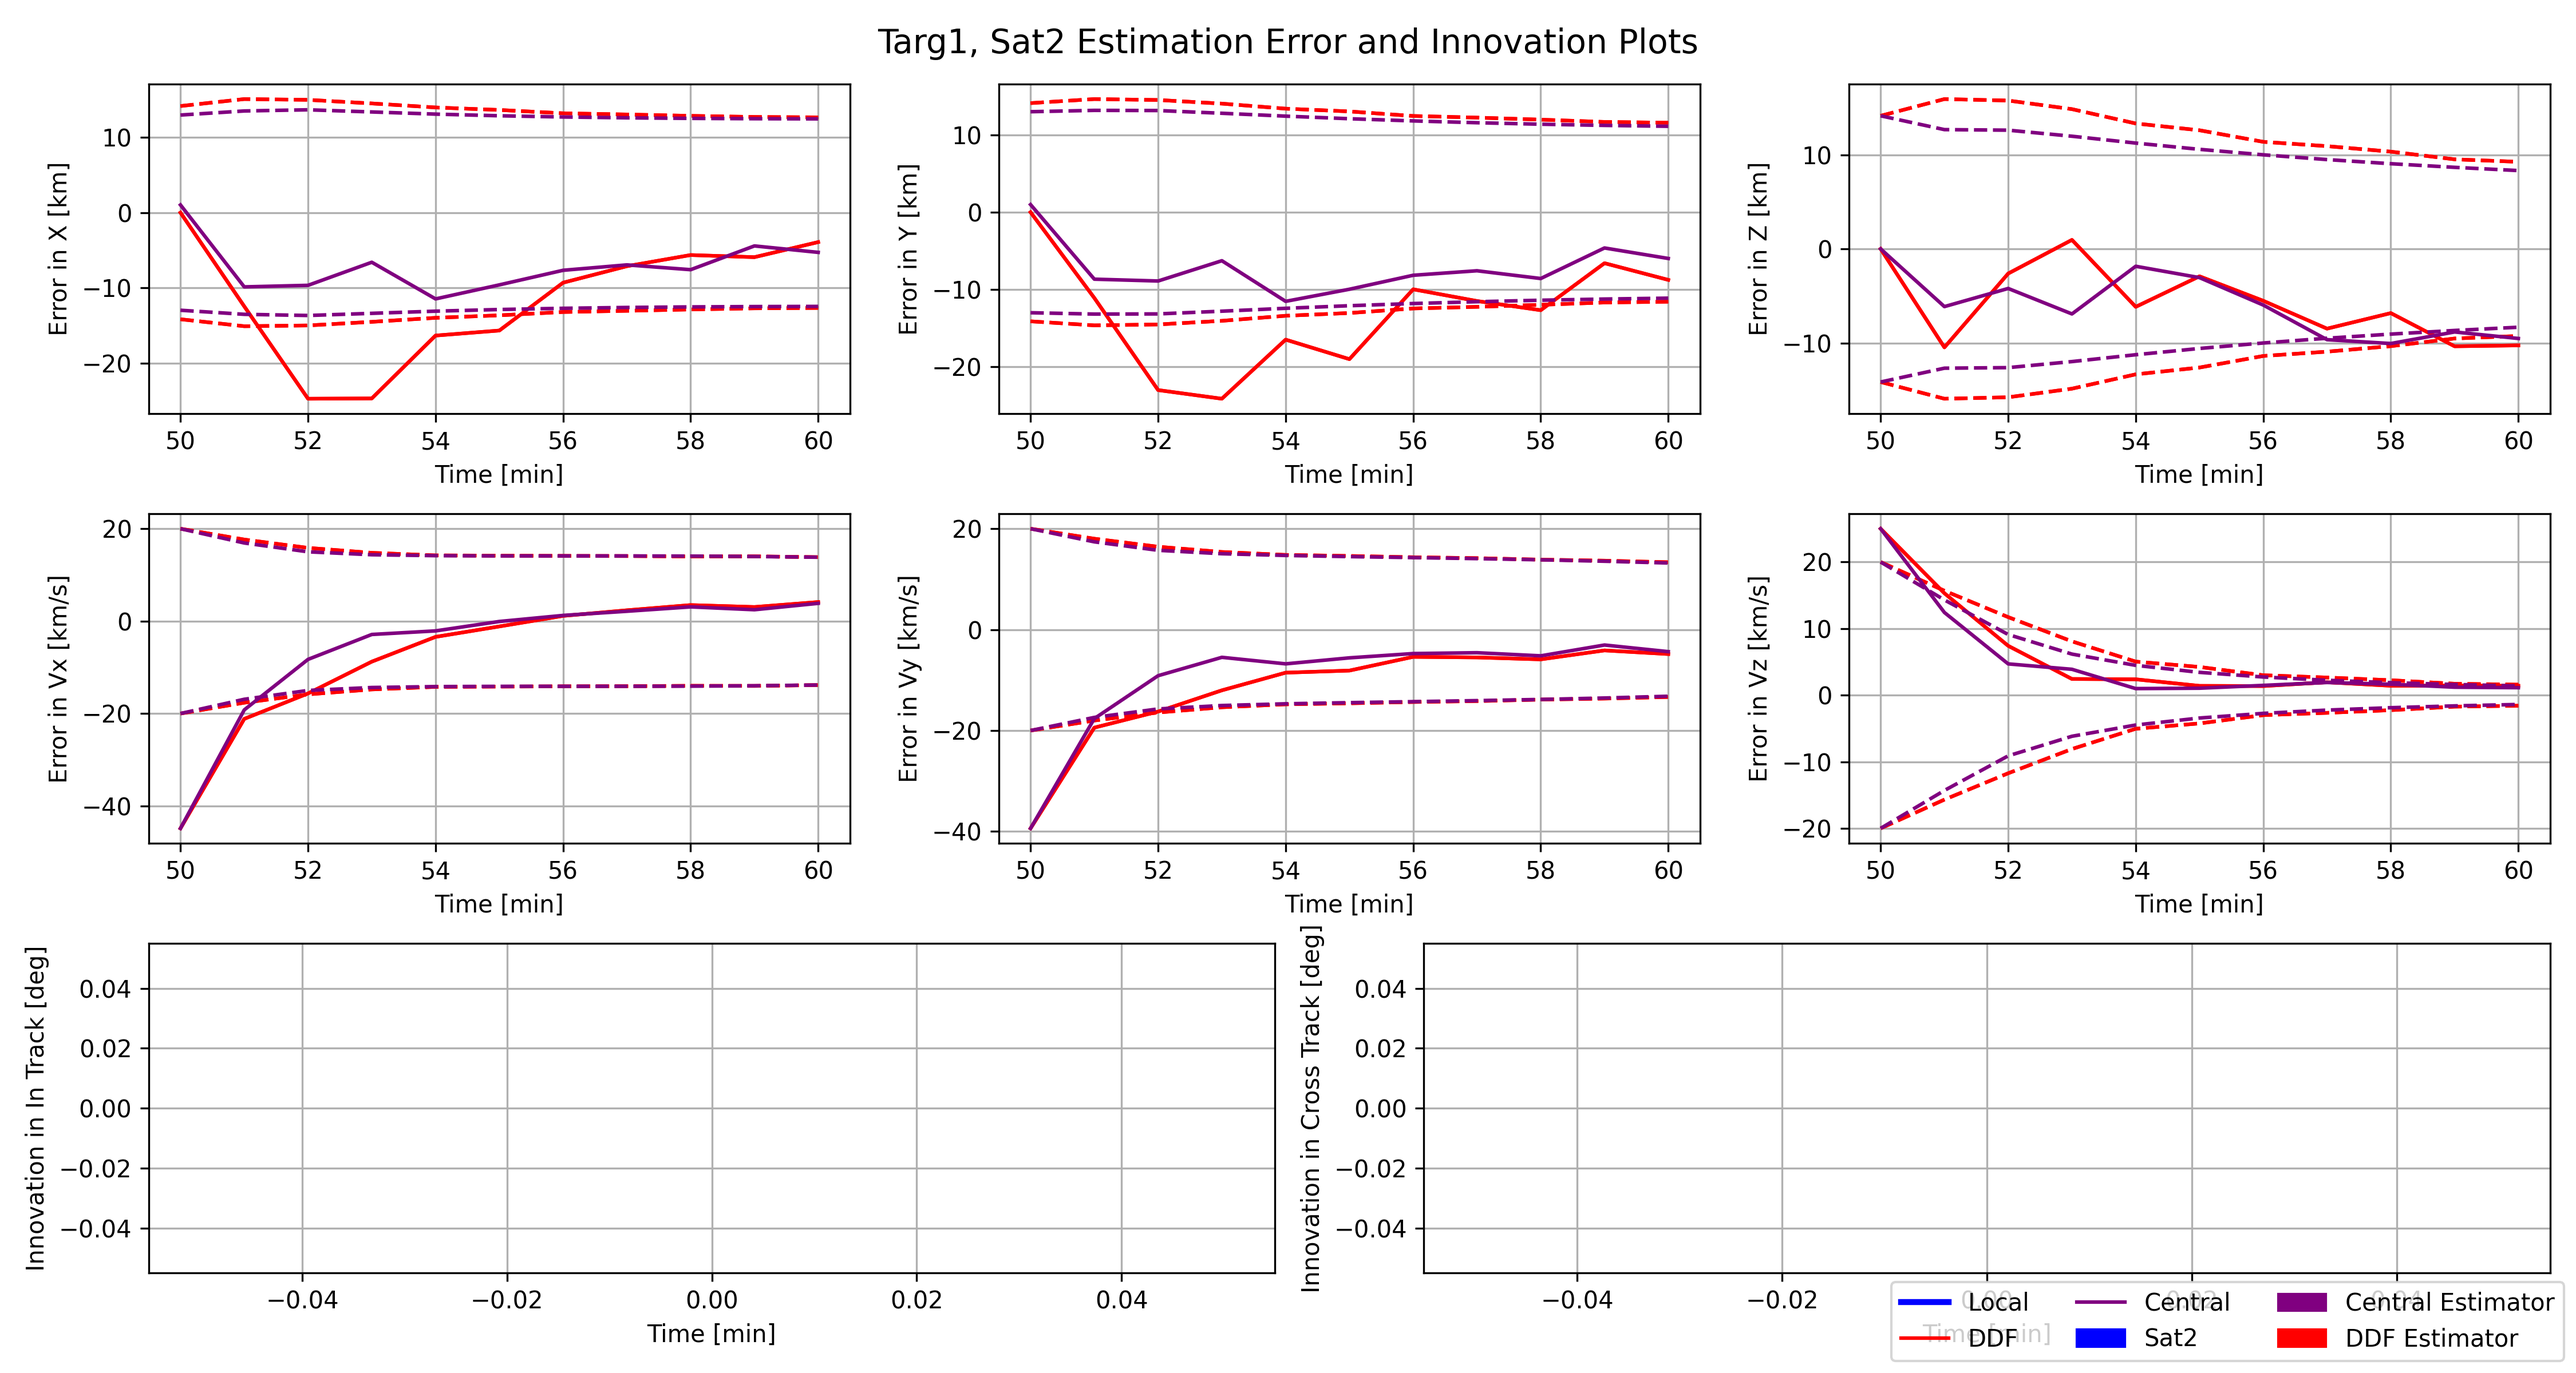
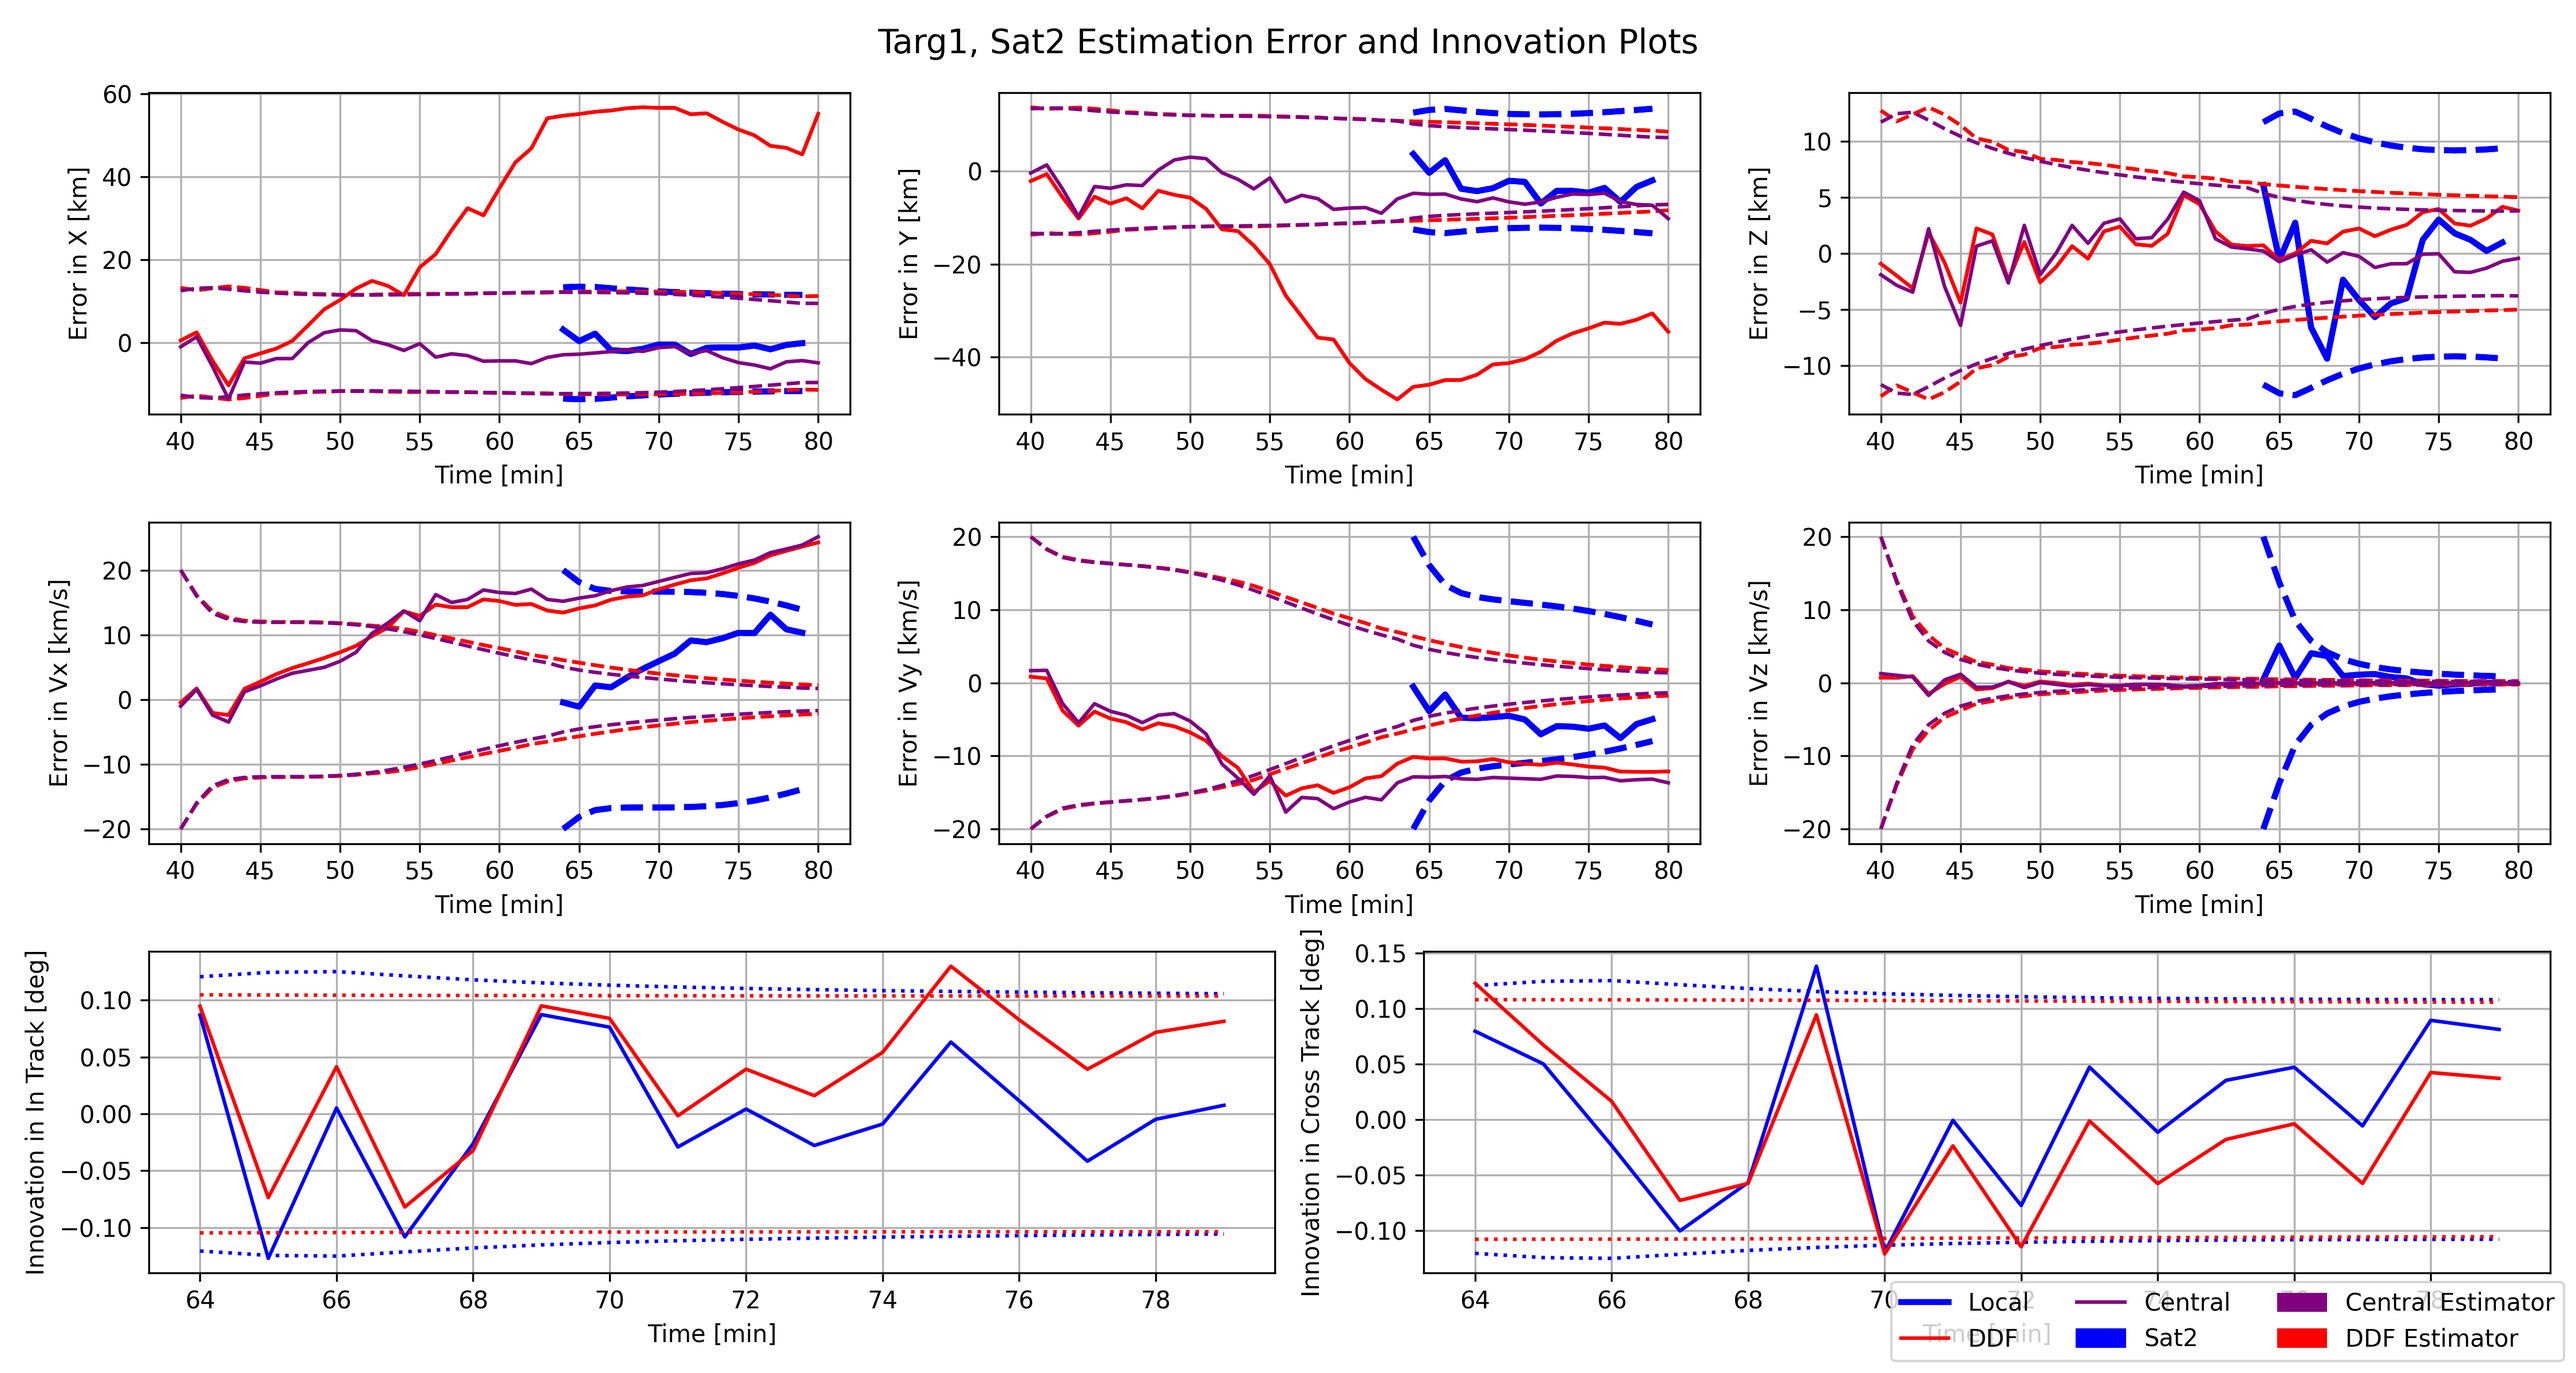
New Push

diff --git a/phase1/main.py b/phase1/main.py
@@ -125,103 +125,12 @@ def plot_NEES_NIS(simData):
         plt.savefig(os.path.join(plotPath,"NEES_NIS_results.png"), dpi=300)
 
 
-
-def testCase_environment():
-# Test Case Consists of:
-#   Four Constellations in Polar Orbits at different right ascension of ascending node
-#   Each Constellation has 5 satellites separated by 5 degrees in true anomaly
-#       Each Satellite one sensors type a,b,c,d,e 
-#       Each satellite tracks all targets
-#       Each Satellite has a local estimator
-#       Each Satellite has a data fusion algorithm
-#
-#   Five Targets at different locations
-#       Target 1: 90 degrees latitude, 0 degrees longitude, 0 altitude, speed 5 m/s, heading 0 degrees, constant altitude 
-#       Target 2: 0 degrees latitude, 0 degrees longitude, 200 altitude, speed 100 m/s, heading 90 degrees, constant altitude
-#       Target 3: 45 degrees latitude, 45 degrees longitude, 100 altitude, speed 50 m/s, heading 45 degrees, constant altitude
-#       Target 4: -45 degrees latitude, 45 degrees longitude, 0 altitude, speed 20 m/s, heading -45 degrees, constant altitude
-#       Target 5: -90 degrees latitude, 45 degrees longitude, 0 altitude, speed 30 m/s, heading 90 degrees, constant altitude
-#
-#   Communication Network:
-#       Each satellite can communicate with 3 nearest neighbors
-#       Maximum range of communication is 5000 km
-#       Minimum range of communication is 500 km
-    
-    
-    # Define 5 sensor models with constant FOV and different bearings error matrixes:
-    bearings_Error_matrix = np.array([ [0.1, 0.1], [0.15, 0.15], [0.2, 0.2], [0.25, 0.25], [0.3, 0.3] ])
-    
-    sensorA = sensor(name = 'Sensor A', fov = 115, bearingsError = bearings_Error_matrix[0])
-    sensorB = sensor(name = 'Sensor B', fov = 115, bearingsError = bearings_Error_matrix[1])
-    sensorC = sensor(name = 'Sensor C', fov = 115, bearingsError = bearings_Error_matrix[2])
-    sensorD = sensor(name = 'Sensor D', fov = 115, bearingsError = bearings_Error_matrix[3])
-    sensorE = sensor(name = 'Sensor E', fov = 115, bearingsError = bearings_Error_matrix[4])
-    
-    # Define TargetIDs
-    targetIDs = [1,2,3,4,5]
-    
-    # Define the indepent Estimator
-    local = indeptEstimator(targetIDs = targetIDs)
-    
-    # Define Data Fusion Algorithm
-    ddf = ddfEstimator(targetIDs = targetIDs)
-    
-    # Define the centralized estimator
-    central = centralEstimator(targetIDs = targetIDs)
-        
-    # Define the satellites:
-    # Constellation 1: Polar Orbit at 0 degrees right ascension of ascending node
-    sat1 = satellite(name = 'Sat1', sensor = deepcopy(sensorA), targetIDs=targetIDs, indeptEstimator=deepcopy(local), ddfEstimator=deepcopy(ddf), a = Earth.R + 1000 * u.km, ecc = 0, inc = 90, raan = 0, argp = 0, nu = 0, color='b')
-    sat2 = satellite(name = 'Sat2', sensor = deepcopy(sensorB), targetIDs=targetIDs, indeptEstimator=deepcopy(local), ddfEstimator=deepcopy(ddf), a = Earth.R + 1000 * u.km, ecc = 0, inc = 90, raan = 0, argp = 0, nu = 15, color='b')
-    sat3 = satellite(name = 'Sat3', sensor = deepcopy(sensorC), targetIDs=targetIDs, indeptEstimator=deepcopy(local), ddfEstimator=deepcopy(ddf), a = Earth.R + 1000 * u.km, ecc = 0, inc = 90, raan = 0, argp = 0, nu = 30, color='b')
-    sat4 = satellite(name = 'Sat4', sensor = deepcopy(sensorD), targetIDs=targetIDs, indeptEstimator=deepcopy(local), ddfEstimator=deepcopy(ddf), a = Earth.R + 1000 * u.km, ecc = 0, inc = 90, raan = 0, argp = 0, nu = 45, color='b')
-    sat5 = satellite(name = 'Sat5', sensor = deepcopy(sensorE), targetIDs=targetIDs, indeptEstimator=deepcopy(local), ddfEstimator=deepcopy(ddf), a = Earth.R + 1000 * u.km, ecc = 0, inc = 90, raan = 0, argp = 0, nu = 60, color='b')
-    
-    # Constellation 2: Polar Orbit at 30 degrees right ascension of ascending node
-    sat6 = satellite(name = 'Sat6', sensor = deepcopy(sensorA), targetIDs=targetIDs, indeptEstimator=deepcopy(local), ddfEstimator=deepcopy(ddf), a = Earth.R + 1000 * u.km, ecc = 0, inc = 90, raan = 30, argp = 0, nu = 0, color='y')
-    sat7 = satellite(name = 'Sat7', sensor = deepcopy(sensorB), targetIDs=targetIDs, indeptEstimator=deepcopy(local), ddfEstimator=deepcopy(ddf), a = Earth.R + 1000 * u.km, ecc = 0, inc = 90, raan = 30, argp = 0, nu = 15, color='y')
-    sat8 = satellite(name = 'Sat8', sensor = deepcopy(sensorC), targetIDs=targetIDs, indeptEstimator=deepcopy(local), ddfEstimator=deepcopy(ddf), a = Earth.R + 1000 * u.km, ecc = 0, inc = 90, raan = 30, argp = 0, nu = 30, color='y')
-    sat9 = satellite(name = 'Sat9', sensor = deepcopy(sensorD), targetIDs=targetIDs, indeptEstimator=deepcopy(local), ddfEstimator=deepcopy(ddf), a = Earth.R + 1000 * u.km, ecc = 0, inc = 90, raan = 30, argp = 0, nu = 45, color='y')
-    sat10 = satellite(name = 'Sat10', sensor = deepcopy(sensorE), targetIDs=targetIDs, indeptEstimator=deepcopy(local), ddfEstimator=deepcopy(ddf), a = Earth.R + 1000 * u.km, ecc = 0, inc = 90, raan = 30, argp = 0, nu = 60, color='y')
-    
-    # Constellation 3: Polar Orbit at 60 degrees right ascension of ascending node
-    # sat11 = satellite(name = 'Sat11', sensor = deepcopy(sensorA), targetIDs=targetIDs, indeptEstimator=deepcopy(local), ddfEstimator=deepcopy(ddf), a = Earth.R + 1000 * u.km, ecc = 0, inc = 90, raan = 60, argp = 0, nu = 0, color='r')
-    # sat12 = satellite(name = 'Sat12', sensor = deepcopy(sensorB), targetIDs=targetIDs, indeptEstimator=deepcopy(local), ddfEstimator=deepcopy(ddf), a = Earth.R + 1000 * u.km, ecc = 0, inc = 90, raan = 60, argp = 0, nu = 5, color='r')
-    # sat13 = satellite(name = 'Sat13', sensor = deepcopy(sensorC), targetIDs=targetIDs, indeptEstimator=deepcopy(local), ddfEstimator=deepcopy(ddf), a = Earth.R + 1000 * u.km, ecc = 0, inc = 90, raan = 60, argp = 0, nu = 10, color='r')
-    # sat14 = satellite(name = 'Sat14', sensor = deepcopy(sensorD), targetIDs=targetIDs, indeptEstimator=deepcopy(local), ddfEstimator=deepcopy(ddf), a = Earth.R + 1000 * u.km, ecc = 0, inc = 90, raan = 60, argp = 0, nu = 15, color='r')
-    # sat15 = satellite(name = 'Sat15', sensor = deepcopy(sensorE), targetIDs=targetIDs, indeptEstimator=deepcopy(local), ddfEstimator=deepcopy(ddf), a = Earth.R + 1000 * u.km, ecc = 0, inc = 90, raan = 60, argp = 0, nu = 20, color='r')
-   
-    # # Constellation 4: Polar Orbit at 90 degrees right ascension of ascending node
-    # sat16 = satellite(name = 'Sat16', sensor = deepcopy(sensorA), targetIDs=targetIDs, indeptEstimator=deepcopy(local), ddfEstimator=deepcopy(ddf), a = Earth.R + 1000 * u.km, ecc = 0, inc = 90, raan = 90, argp = 0, nu = 0, color='g')
-    # sat17 = satellite(name = 'Sat17', sensor = deepcopy(sensorB), targetIDs=targetIDs, indeptEstimator=deepcopy(local), ddfEstimator=deepcopy(ddf), a = Earth.R + 1000 * u.km, ecc = 0, inc = 90, raan = 90, argp = 0, nu = 5, color='g')
-    # sat18 = satellite(name = 'Sat18', sensor = deepcopy(sensorC), targetIDs=targetIDs, indeptEstimator=deepcopy(local), ddfEstimator=deepcopy(ddf), a = Earth.R + 1000 * u.km, ecc = 0, inc = 90, raan = 90, argp = 0, nu = 10, color='g')
-    # sat19 = satellite(name = 'Sat19', sensor = deepcopy(sensorD), targetIDs=targetIDs, indeptEstimator=deepcopy(local), ddfEstimator=deepcopy(ddf), a = Earth.R + 1000 * u.km, ecc = 0, inc = 90, raan = 90, argp = 0, nu = 15, color='g')
-    # sat20 = satellite(name = 'Sat20', sensor = deepcopy(sensorE), targetIDs=targetIDs, indeptEstimator=deepcopy(local), ddfEstimator=deepcopy(ddf), a = Earth.R + 1000 * u.km, ecc = 0, inc = 90, raan = 90, argp = 0, nu = 20, color='g')
-    
-    sats = [sat1, sat2, sat3, sat4, sat5, sat6, sat7, sat8, sat9, sat10]#, sat11, sat12, sat13, sat14, sat15, sat16, sat17, sat18, sat19, sat20]
-    
-    # Define the target objects:
-    targ1 = target(name = 'Targ1', targetID=1, cords = np.array([90,0,0]), heading=0, speed=5, climbrate = 0, color = '#DC143C')
-    targ2 = target(name = 'Targ2', targetID=2, cords = np.array([45,30,200]), heading=0, speed=5, climbrate = 0, color = '#FF8C00')
-    targ3 = target(name = 'Targ3', targetID=3, cords = np.array([0,0,100]), heading=90, speed=5, climbrate = 0, color = '#FFD700')
-    targ4 = target(name = 'Targ4', targetID=4, cords = np.array([-45,-150,50]), heading=0, speed=5, climbrate = 0, color = '#228B22')
-    targ5 = target(name = 'Targ5', targetID=5, cords = np.array([-90,0,0]), heading=0, speed=5, climbrate = 0, color = '#4B0082')
-    
-    
-    targs = [targ1, targ2, targ3, targ4, targ5]
-
-    # Define the communication network:
-    comms_network = comms(sats, maxNeighbors = 3, maxRange = 5000*u.km, minRange = 500*u.km, displayStruct = True)
-
-    # Create and return an environment instance:
-    return environment(sats, targs, comms_network, central)
-
 if __name__ == "__main__":
     # Vector of time for simulation:
-    time_vec = np.linspace(50, 60, 11) * u.minute
+    time_vec = np.linspace(40, 80, 41) * u.minute
     
     env = create_environment()
-    env.simulate(time_vec, savePlot = True, saveName = "PDR_DDF", showSim = True)
+    env.simulate(time_vec, savePlot = True, saveName = "PDR_DDF", showSim = False)
         
     # Plot the NEES and NIS results:
     # plot_NEES_NIS(simData)

diff --git a/phase1/estimatorClass.py b/phase1/estimatorClass.py
@@ -31,7 +31,7 @@ class BaseEstimator:
         if len(self.estHist[targetID]) == 0 and len(self.covarianceHist[targetID]) == 0: # If no prior estimate exists, just use the measurement
         # If no prior estimates, use the first measurement and assume no velocity
             # start with true position plus some noise
-            est_prior = np.array([target.pos[0], 25, target.pos[1], 25, target.pos[2], 25])# + np.random.normal(0, 2, 6) 
+            est_prior = np.array([target.pos[0], target.vel[0], target.pos[1], target.vel[1], target.pos[2], target.vel[2]]) + np.random.normal(0, 1, 6) 
             # start with some covariance, about +- 5 km and +- 15 km/min, then plus some noise 
             P_prior = np.array([[50, 0, 0, 0, 0, 0],
                                 [0, 100, 0, 0, 0, 0],
@@ -233,7 +233,7 @@ class centralEstimator(BaseEstimator):
         if len(self.estHist[targetID]) == 0 and len(self.covarianceHist[targetID]) == 0: # If no prior estimate exists, just use the measurement
         # If no prior estimates, use the first measurement and assume no velocity
         
-            est_prior = np.array([target.pos[0], 25, target.pos[1], 25, target.pos[2], 25])# + np.random.normal(0, 2, 6) 
+            est_prior = np.array([target.pos[0], target.vel[0], target.pos[1], target.vel[1], target.pos[2], target.vel[2]]) +  np.random.normal(0, 1, 6) 
             # start with some covariance, about +- 5 km and +- 15 km/min, then plus some noise 
             P_prior = np.array([[50, 0, 0, 0, 0, 0],
                                 [0, 100, 0, 0, 0, 0],

diff --git a/phase1/environmentClass.py b/phase1/environmentClass.py
@@ -124,7 +124,7 @@ class environment:
                         neighborTime = max(neighbor.ddfEstimator.estHist[targ.targetID].keys())
 
                         # If the neighbor has an older estimate, send the most recent estimate
-                        if satTime > neighborTime:
+                        if satTime >= neighborTime:
                             self.comms.send_measurement(sat, neighbor, sat.ddfEstimator.estHist[targ.targetID][satTime], sat.ddfEstimator.covarianceHist[targ.targetID][satTime], targ.targetID, satTime)
 
                     # Now, each satellite will perform covariance intersection on the measurements sent to it
